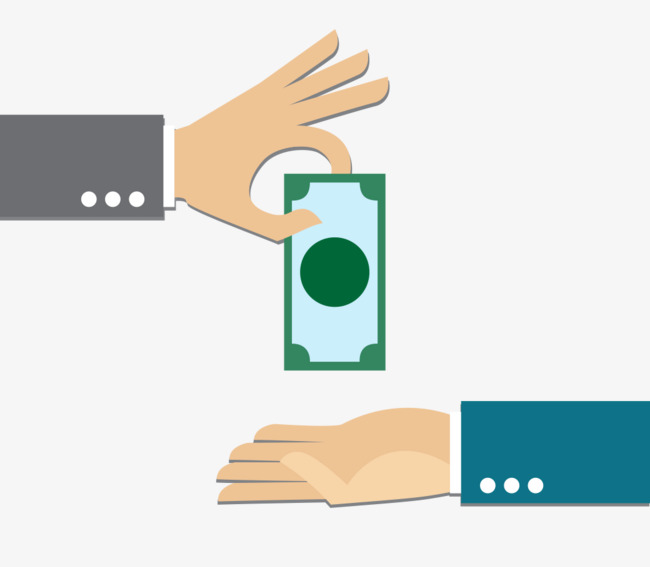
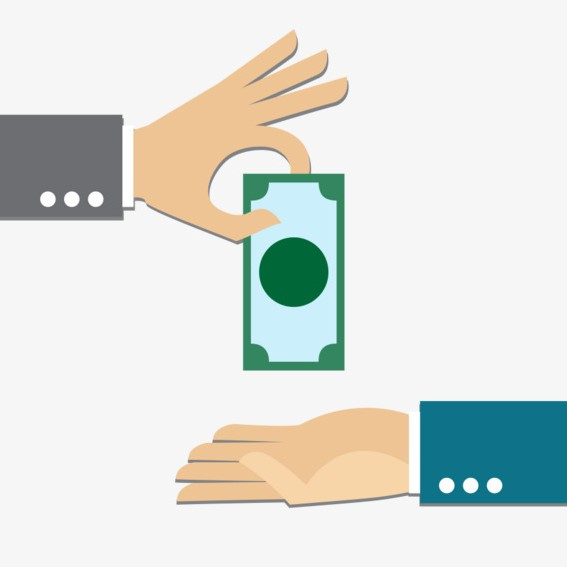
Display customer card (#10)
* Add customer card

* Fix size for cards

diff --git a/src/components/dashboard/Dashboard.js b/src/components/dashboard/Dashboard.js
@@ -9,13 +9,13 @@ class Dashboard extends Component {
     return (
       <div className="container-fluid">
         <div className="row">
-          <div className="col-sm-offset-2 col-sm-4">
+          <div className="col-md-4">
             <TransactionCard />
           </div>
-          <div className="col-sm-offset-2 col-sm-4">
+          <div className="col-md-4">
             <HistoryCard />
           </div>
-          <div className="col-sm-offset-2 col-sm-4">
+          <div className="col-md-4">
             <CutomerCard />
           </div>
         </div>

diff --git a/src/components/cards/CutomerCard.js b/src/components/cards/CutomerCard.js
@@ -3,7 +3,8 @@ import { connect } from "react-redux";
 import PropTypes from "prop-types";
 import { bindActionCreators } from "redux";
 import * as customerActions from "../../actions/CustomerActions";
-import CutomerImage from "../../images/CustomerCard.jpg";
+import CutomerImage from "../../images/CustomerCard.png";
+import "../../styles/CardStyles.css"
 
 class CustomerCard extends Component {
   onClickDisplayForm() {

diff --git a/src/styles/CardStyles.css b/src/styles/CardStyles.css
@@ -1,0 +1,4 @@
+.card{
+    width:100%;
+    height:100%;
+}
